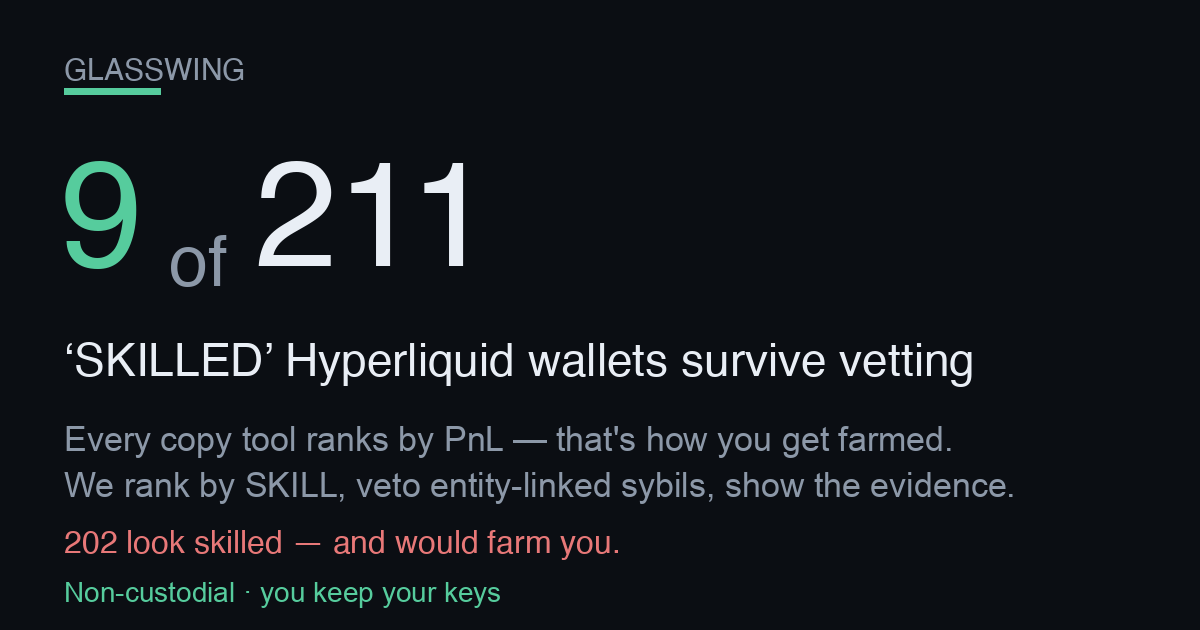
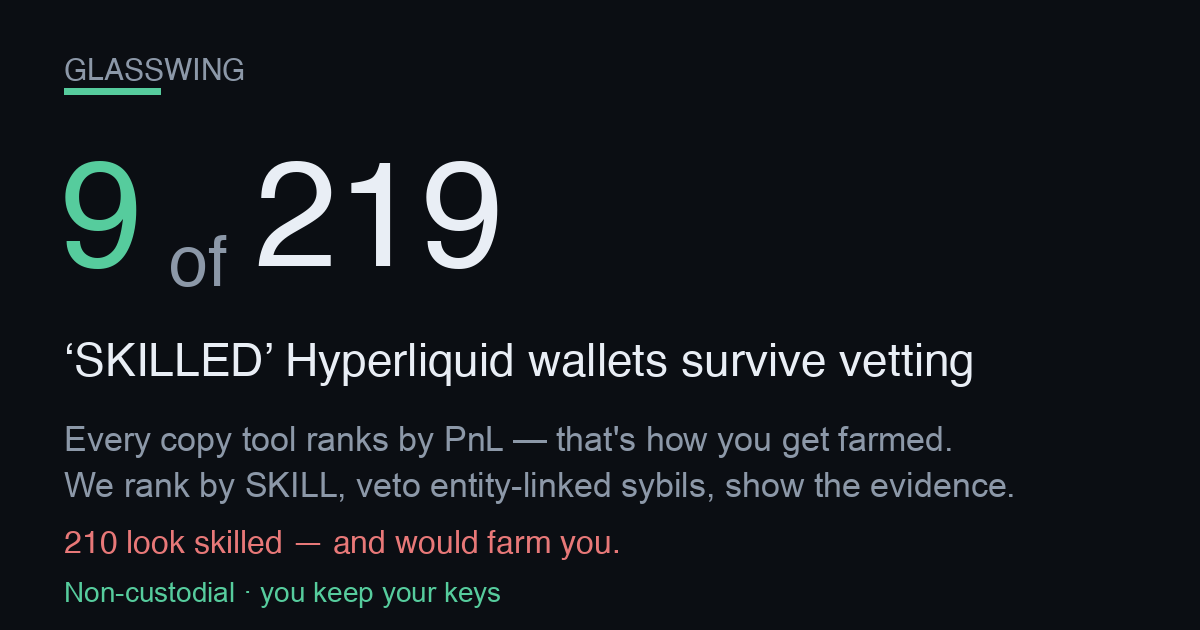
publish funnel 2026-08-13T19:46:23Z

Changed region(s): [[0.3392, 0.2413, 0.4317, 0.4524], [0.0617, 0.8444, 0.0925, 0.8746]]

diff --git a/screener.html b/screener.html
@@ -57,4 +57,4 @@ padding:11px 22px;font-size:15px;font-weight:800;border:1px solid var(--good)}
 footer{margin-top:34px;color:var(--muted);font-size:12px;line-height:1.6;
 border-top:1px solid var(--line);padding-top:16px}
 footer b{color:var(--ink)}
-</style></head><body><div class="wrap"><div class="nav"><a href="./index.html">&larr; Glasswing home</a><span class="sep">|</span><span>Edge Screener</span><span class="sep">|</span><a href="./dex.html">Copy a vetted leader</a></div><div class="hero"><h1>Hyperliquid Edge Screener</h1><div class="sub">Where&rsquo;s the carry, where a maker earns, and what&rsquo;s moving on Hyperliquid &mdash; live, computed from the public API. Bookmark it. Every number below is real and timestamped.</div><div class="stamp">Data as of <b>2026-08-12T05:44:14Z</b> &middot; rendered 2026-08-12T05:44:14Z &middot; 177 perps &middot; 94 HIP-3 (xyz) markets scanned</div></div><h2>Top funding &mdash; the carry table <span class="hint">perps ranked by annualized funding. Positive = longs pay shorts (a delta-neutral short earns it).</span></h2><div class="tblwrap"><table><thead><tr><th>Coin</th><th>Funding / hr</th><th>Annualized</th><th>Who pays</th><th>Open interest</th><th>24h volume</th></tr></thead><tbody><tr><td class="coin">KAITO</td><td>-0.3766%</td><td class="neg">-3299.4%</td><td><span class="tag shorts">shorts pay</span></td><td>$13.3M</td><td>$15.9M</td></tr><tr><td class="coin">STABLE</td><td>-0.0105%</td><td class="neg">-92.2%</td><td><span class="tag shorts">shorts pay</span></td><td>$1.5M</td><td>$296K</td></tr><tr><td class="coin">VVV</td><td>+0.0092%</td><td class="pos">+80.7%</td><td><span class="tag longs">longs pay</span></td><td>$16.6M</td><td>$2.0M</td></tr><tr><td class="coin">ACE</td><td>-0.0076%</td><td class="neg">-66.5%</td><td><span class="tag shorts">shorts pay</span></td><td>$1.0M</td><td>$773K</td></tr><tr><td class="coin">BIGTIME<span class="tag thin" title="Low liquidity/OI &mdash; ADL &amp; liquidation risk; funding can flip">&#9888; thin</span></td><td>-0.0073%</td><td class="neg">-63.6%</td><td><span class="tag shorts">shorts pay</span></td><td>$164K</td><td>$100K</td></tr><tr><td class="coin">OP</td><td>-0.0061%</td><td class="neg">-53.4%</td><td><span class="tag shorts">shorts pay</span></td><td>$3.4M</td><td>$639K</td></tr><tr><td class="coin">XAI<span class="tag thin" title="Low liquidity/OI &mdash; ADL &amp; liquidation risk; funding can flip">&#9888; thin</span></td><td>-0.0060%</td><td class="neg">-52.3%</td><td><span class="tag shorts">shorts pay</span></td><td>$269K</td><td>$109K</td></tr><tr><td class="coin">ZK</td><td>-0.0053%</td><td class="neg">-46.8%</td><td><span class="tag shorts">shorts pay</span></td><td>$622K</td><td>$274K</td></tr><tr><td class="coin">SUSHI<span class="tag thin" title="Low liquidity/OI &mdash; ADL &amp; liquidation risk; funding can flip">&#9888; thin</span></td><td>-0.0045%</td><td class="neg">-39.6%</td><td><span class="tag shorts">shorts pay</span></td><td>$324K</td><td>$327K</td></tr><tr><td class="coin">BABY<span class="tag thin" title="Low liquidity/OI &mdash; ADL &amp; liquidation risk; funding can flip">&#9888; thin</span></td><td>-0.0044%</td><td class="neg">-39.0%</td><td><span class="tag shorts">shorts pay</span></td><td>$173K</td><td>$281K</td></tr><tr><td class="coin">NEO<span class="tag thin" title="Low liquidity/OI &mdash; ADL &amp; liquidation risk; funding can flip">&#9888; thin</span></td><td>-0.0041%</td><td class="neg">-36.0%</td><td><span class="tag shorts">shorts pay</span></td><td>$319K</td><td>$120K</td></tr><tr><td class="coin">IO<span class="tag thin" title="Low liquidity/OI &mdash; ADL &amp; liquidation risk; funding can flip">&#9888; thin</span></td><td>-0.0032%</td><td class="neg">-27.8%</td><td><span class="tag shorts">shorts pay</span></td><td>$493K</td><td>$155K</td></tr></tbody></table></div><h2>Widest HIP-3 spreads &mdash; where a maker earns <span class="hint">xyz: markets by impact-price spread vs the ~0.6bps round-trip fee. A resting limit order captures the gap.</span></h2><div class="tblwrap"><table><thead><tr><th>Market</th><th>Spread</th><th>vs 0.6bps fee</th><th>Mid</th><th>24h volume</th></tr></thead><tbody><tr><td class="coin">xyz:NCLD<span class="tag gm">growth</span></td><td>369.9 bps</td><td class="pos">+369.3 bps</td><td>24.4175</td><td>$138K</td></tr><tr><td class="coin">xyz:BIRD<span class="tag gm">growth</span></td><td>295.9 bps</td><td class="pos">+295.3 bps</td><td>2.5812</td><td>$84K</td></tr><tr><td class="coin">xyz:LYTE<span class="tag gm">growth</span></td><td>187.6 bps</td><td class="pos">+187.0 bps</td><td>25.9280</td><td>$608K</td></tr><tr><td class="coin">xyz:GEV<span class="tag gm">growth</span></td><td>127.2 bps</td><td class="pos">+126.6 bps</td><td>1,015.65</td><td>$12K</td></tr><tr><td class="coin">xyz:BOT<span class="tag gm">growth</span></td><td>79.4 bps</td><td class="pos">+78.8 bps</td><td>30.9190</td><td>$2.8M</td></tr><tr><td class="coin">xyz:PURRDAT</td><td>76.1 bps</td><td class="pos">+75.5 bps</td><td>6.5893</td><td>$825K</td></tr><tr><td class="coin">xyz:SHAZ<span class="tag gm">growth</span></td><td>76.1 bps</td><td class="pos">+75.5 bps</td><td>57.5325</td><td>$1.4M</td></tr><tr><td class="coin">xyz:DKNG<span class="tag gm">growth</span></td><td>70.8 bps</td><td class="pos">+70.2 bps</td><td>25.2870</td><td>$160K</td></tr><tr><td class="coin">xyz:URNM<span class="tag gm">growth</span></td><td>61.5 bps</td><td class="pos">+60.9 bps</td><td>55.5525</td><td>$81K</td></tr><tr><td class="coin">xyz:ZM<span class="tag gm">growth</span></td><td>59.9 bps</td><td class="pos">+59.3 bps</td><td>105.8900</td><td>$179K</td></tr><tr><td class="coin">xyz:QNT<span class="tag gm">growth</span></td><td>58.2 bps</td><td class="pos">+57.6 bps</td><td>56.3020</td><td>$695K</td></tr><tr><td class="coin">xyz:EBAY<span class="tag gm">growth</span></td><td>57.4 bps</td><td class="pos">+56.8 bps</td><td>106.7650</td><td>$33K</td></tr></tbody></table></div><h2>Momentum &amp; volume &mdash; what&rsquo;s moving <span class="hint">perps by 24h volume with the 24h price change (mark vs prior-day).</span></h2><div class="tblwrap"><table><thead><tr><th>Coin</th><th>24h volume</th><th>24h change</th><th>Mark</th></tr></thead><tbody><tr><td class="coin">BTC</td><td>$1.30B</td><td class="neg">-0.32%</td><td>63,821.00</td></tr><tr><td class="coin">ETH</td><td>$663.5M</td><td class="pos">+0.80%</td><td>1,891.00</td></tr><tr><td class="coin">HYPE</td><td>$126.0M</td><td class="neg">-1.50%</td><td>54.5170</td></tr><tr><td class="coin">SOL</td><td>$116.2M</td><td class="pos">+0.46%</td><td>76.2780</td></tr><tr><td class="coin">ZEC</td><td>$59.7M</td><td class="neg">-2.00%</td><td>482.8400</td></tr><tr><td class="coin">XRP</td><td>$55.1M</td><td class="pos">+0.89%</td><td>1.0224</td></tr><tr><td class="coin">PUMP</td><td>$42.6M</td><td class="neg">-3.88%</td><td>0.002722</td></tr><tr><td class="coin">LIT</td><td>$19.2M</td><td class="neg">-6.33%</td><td>2.3186</td></tr><tr><td class="coin">KAITO</td><td>$15.9M</td><td class="neg">-4.81%</td><td>0.60613</td></tr><tr><td class="coin">CRV</td><td>$14.6M</td><td class="pos">+3.80%</td><td>0.27636</td></tr><tr><td class="coin">DOGE</td><td>$11.5M</td><td class="pos">+2.89%</td><td>0.072139</td></tr><tr><td class="coin">CASHCAT</td><td>$9.7M</td><td class="neg">-2.99%</td><td>0.14461</td></tr></tbody></table></div><div class="cta"><h2>These are the opportunities. Now copy the people who trade them.</h2><p class="lead">Spotting the carry and the spreads is the easy part &mdash; sizing, timing and risk are where most traders bleed. Copy the <b>skill-vetted</b> Hyperliquid leaders who actually trade these edges. Non-custodial: <b>you keep your keys and your funds</b> the entire time.</p><div class="row"><a class="btn" href="./index.html">See the vetted leaders &rarr;</a><a class="btn ghost" href="./dex.html">Start copying (non-custodial) &rarr;</a></div><div class="nc"><b>Non-custodial &amp; honest:</b> we never hold your keys or funds. Copying routes through a <b>0.01%</b> (1bp) on-chain builder fee &mdash; that is the only thing we ever charge, and it is the same fee shown on the copy page. Nothing on this screener is executed for you; it is information only.</div></div><footer><b>Not financial advice.</b> Funding rates, spreads and volumes are live snapshots that change every block; figures can be stale by the time you act. A high funding rate is <b>not free money</b> &mdash; the biggest rates sit on the thinnest, most crowded books (flagged &#9888; thin), where funding can flip against you and auto-deleveraging (ADL) or liquidation can close your position. &ldquo;Spread&rdquo; here is the impact-price spread (a conservative maker signal), not a guaranteed fill. HIP-3 markets are experimental. Do your own research and size responsibly. Glasswing is <b>non-custodial</b> &mdash; we never take custody of your keys or funds.</footer></div></body></html>
+</style></head><body><div class="wrap"><div class="nav"><a href="./index.html">&larr; Glasswing home</a><span class="sep">|</span><span>Edge Screener</span><span class="sep">|</span><a href="./dex.html">Copy a vetted leader</a></div><div class="hero"><h1>Hyperliquid Edge Screener</h1><div class="sub">Where&rsquo;s the carry, where a maker earns, and what&rsquo;s moving on Hyperliquid &mdash; live, computed from the public API. Bookmark it. Every number below is real and timestamped.</div><div class="stamp">Data as of <b>2026-08-13T19:44:29Z</b> &middot; rendered 2026-08-13T19:44:29Z &middot; 177 perps &middot; 94 HIP-3 (xyz) markets scanned</div></div><h2>Top funding &mdash; the carry table <span class="hint">perps ranked by annualized funding. Positive = longs pay shorts (a delta-neutral short earns it).</span></h2><div class="tblwrap"><table><thead><tr><th>Coin</th><th>Funding / hr</th><th>Annualized</th><th>Who pays</th><th>Open interest</th><th>24h volume</th></tr></thead><tbody><tr><td class="coin">ZORA<span class="tag thin" title="Low liquidity/OI &mdash; ADL &amp; liquidation risk; funding can flip">&#9888; thin</span></td><td>-0.0180%</td><td class="neg">-157.6%</td><td><span class="tag shorts">shorts pay</span></td><td>$549K</td><td>$153K</td></tr><tr><td class="coin">XMR</td><td>+0.0175%</td><td class="pos">+153.4%</td><td><span class="tag longs">longs pay</span></td><td>$58.0M</td><td>$6.5M</td></tr><tr><td class="coin">KAITO</td><td>-0.0162%</td><td class="neg">-142.0%</td><td><span class="tag shorts">shorts pay</span></td><td>$10.7M</td><td>$8.5M</td></tr><tr><td class="coin">2Z</td><td>-0.0155%</td><td class="neg">-135.4%</td><td><span class="tag shorts">shorts pay</span></td><td>$656K</td><td>$1.7M</td></tr><tr><td class="coin">MINA<span class="tag thin" title="Low liquidity/OI &mdash; ADL &amp; liquidation risk; funding can flip">&#9888; thin</span></td><td>-0.0124%</td><td class="neg">-108.4%</td><td><span class="tag shorts">shorts pay</span></td><td>$710K</td><td>$192K</td></tr><tr><td class="coin">BABY<span class="tag thin" title="Low liquidity/OI &mdash; ADL &amp; liquidation risk; funding can flip">&#9888; thin</span></td><td>-0.0108%</td><td class="neg">-94.2%</td><td><span class="tag shorts">shorts pay</span></td><td>$134K</td><td>$258K</td></tr><tr><td class="coin">GAS<span class="tag thin" title="Low liquidity/OI &mdash; ADL &amp; liquidation risk; funding can flip">&#9888; thin</span></td><td>-0.0081%</td><td class="neg">-70.8%</td><td><span class="tag shorts">shorts pay</span></td><td>$155K</td><td>$66K</td></tr><tr><td class="coin">BCH</td><td>-0.0079%</td><td class="neg">-69.4%</td><td><span class="tag shorts">shorts pay</span></td><td>$4.4M</td><td>$1.3M</td></tr><tr><td class="coin">ATOM</td><td>-0.0078%</td><td class="neg">-68.3%</td><td><span class="tag shorts">shorts pay</span></td><td>$2.0M</td><td>$579K</td></tr><tr><td class="coin">TURBO<span class="tag thin" title="Low liquidity/OI &mdash; ADL &amp; liquidation risk; funding can flip">&#9888; thin</span></td><td>-0.0073%</td><td class="neg">-64.1%</td><td><span class="tag shorts">shorts pay</span></td><td>$362K</td><td>$140K</td></tr><tr><td class="coin">CASHCAT</td><td>+0.0073%</td><td class="pos">+63.6%</td><td><span class="tag longs">longs pay</span></td><td>$22.1M</td><td>$3.0M</td></tr><tr><td class="coin">LIT</td><td>-0.0064%</td><td class="neg">-56.1%</td><td><span class="tag shorts">shorts pay</span></td><td>$85.6M</td><td>$13.2M</td></tr></tbody></table></div><h2>Widest HIP-3 spreads &mdash; where a maker earns <span class="hint">xyz: markets by impact-price spread vs the ~0.6bps round-trip fee. A resting limit order captures the gap.</span></h2><div class="tblwrap"><table><thead><tr><th>Market</th><th>Spread</th><th>vs 0.6bps fee</th><th>Mid</th><th>24h volume</th></tr></thead><tbody><tr><td class="coin">xyz:GIGADEV<span class="tag gm">growth</span></td><td>205.3 bps</td><td class="pos">+204.7 bps</td><td>61.8010</td><td>$573K</td></tr><tr><td class="coin">xyz:SOFTBANK<span class="tag gm">growth</span></td><td>133.2 bps</td><td class="pos">+132.6 bps</td><td>36.8020</td><td>$545K</td></tr><tr><td class="coin">xyz:BOT<span class="tag gm">growth</span></td><td>87.1 bps</td><td class="pos">+86.5 bps</td><td>31.5805</td><td>$1.2M</td></tr><tr><td class="coin">xyz:BIRD<span class="tag gm">growth</span></td><td>67.6 bps</td><td class="pos">+67.0 bps</td><td>2.6468</td><td>$277K</td></tr><tr><td class="coin">xyz:GEV<span class="tag gm">growth</span></td><td>47.1 bps</td><td class="pos">+46.5 bps</td><td>1,047.65</td><td>$59K</td></tr><tr><td class="coin">xyz:KIOXIA<span class="tag gm">growth</span></td><td>46.1 bps</td><td class="pos">+45.5 bps</td><td>355.3150</td><td>$10.7M</td></tr><tr><td class="coin">xyz:KR200<span class="tag gm">growth</span></td><td>44.8 bps</td><td class="pos">+44.2 bps</td><td>1,090.55</td><td>$1.1M</td></tr><tr><td class="coin">xyz:NCLD<span class="tag gm">growth</span></td><td>38.7 bps</td><td class="pos">+38.1 bps</td><td>26.0570</td><td>$451K</td></tr><tr><td class="coin">xyz:UNITREE<span class="tag gm">growth</span></td><td>36.5 bps</td><td class="pos">+35.9 bps</td><td>92.0920</td><td>$5.5M</td></tr><tr><td class="coin">xyz:ZHIPU<span class="tag gm">growth</span></td><td>32.7 bps</td><td class="pos">+32.1 bps</td><td>169.9800</td><td>$4.2M</td></tr><tr><td class="coin">xyz:QNT<span class="tag gm">growth</span></td><td>28.1 bps</td><td class="pos">+27.5 bps</td><td>68.4395</td><td>$2.3M</td></tr><tr><td class="coin">xyz:LYTE<span class="tag gm">growth</span></td><td>27.2 bps</td><td class="pos">+26.6 bps</td><td>26.1180</td><td>$1.1M</td></tr></tbody></table></div><h2>Momentum &amp; volume &mdash; what&rsquo;s moving <span class="hint">perps by 24h volume with the 24h price change (mark vs prior-day).</span></h2><div class="tblwrap"><table><thead><tr><th>Coin</th><th>24h volume</th><th>24h change</th><th>Mark</th></tr></thead><tbody><tr><td class="coin">BTC</td><td>$1.90B</td><td class="pos">+0.10%</td><td>63,384.00</td></tr><tr><td class="coin">ETH</td><td>$756.8M</td><td class="pos">+0.33%</td><td>1,885.54</td></tr><tr><td class="coin">HYPE</td><td>$206.4M</td><td class="pos">+2.30%</td><td>57.4980</td></tr><tr><td class="coin">SOL</td><td>$83.2M</td><td class="pos">+0.60%</td><td>76.0500</td></tr><tr><td class="coin">ZEC</td><td>$29.0M</td><td class="neg">-1.43%</td><td>483.8400</td></tr><tr><td class="coin">PUMP</td><td>$29.0M</td><td class="pos">+5.67%</td><td>0.002872</td></tr><tr><td class="coin">XRP</td><td>$23.4M</td><td class="pos">+0.07%</td><td>1.0084</td></tr><tr><td class="coin">LIT</td><td>$13.2M</td><td class="neg">-2.49%</td><td>2.3152</td></tr><tr><td class="coin">DOGE</td><td>$9.1M</td><td class="neg">-0.41%</td><td>0.070229</td></tr><tr><td class="coin">KAITO</td><td>$8.5M</td><td class="neg">-8.23%</td><td>0.42501</td></tr><tr><td class="coin">CRV</td><td>$7.5M</td><td class="neg">-5.07%</td><td>0.25295</td></tr><tr><td class="coin">kPEPE</td><td>$6.8M</td><td class="neg">-3.60%</td><td>0.002674</td></tr></tbody></table></div><div class="cta"><h2>These are the opportunities. Now copy the people who trade them.</h2><p class="lead">Spotting the carry and the spreads is the easy part &mdash; sizing, timing and risk are where most traders bleed. Copy the <b>skill-vetted</b> Hyperliquid leaders who actually trade these edges. Non-custodial: <b>you keep your keys and your funds</b> the entire time.</p><div class="row"><a class="btn" href="./index.html">See the vetted leaders &rarr;</a><a class="btn ghost" href="./dex.html">Start copying (non-custodial) &rarr;</a></div><div class="nc"><b>Non-custodial &amp; honest:</b> we never hold your keys or funds. Copying routes through a <b>0.01%</b> (1bp) on-chain builder fee &mdash; that is the only thing we ever charge, and it is the same fee shown on the copy page. Nothing on this screener is executed for you; it is information only.</div></div><footer><b>Not financial advice.</b> Funding rates, spreads and volumes are live snapshots that change every block; figures can be stale by the time you act. A high funding rate is <b>not free money</b> &mdash; the biggest rates sit on the thinnest, most crowded books (flagged &#9888; thin), where funding can flip against you and auto-deleveraging (ADL) or liquidation can close your position. &ldquo;Spread&rdquo; here is the impact-price spread (a conservative maker signal), not a guaranteed fill. HIP-3 markets are experimental. Do your own research and size responsibly. Glasswing is <b>non-custodial</b> &mdash; we never take custody of your keys or funds.</footer></div></body></html>

diff --git a/track.html b/track.html
@@ -62,35 +62,35 @@ font-weight:600;font-size:14px}
 <div class="wrap">
   <div class="hero">
     <h1>Self-verifying on-chain track record</h1>
-    <div class="big">$211.23</div>
+    <div class="big">$196.31</div>
     <div class="sub">current on-chain equity (perp + vault + spot USDC)</div>
     <div class="addr">0xbe6C1b09662BbE52CC93279D103Feb27985DdBc1</div>
-    <div class="stage early">24 days live — EARLY / NOT YET A MATURE RECORD</div>
+    <div class="stage early">26 days live — EARLY / NOT YET A MATURE RECORD</div>
   </div>
 
-  <div class="warnbar">EARLY-STAGE: this record is only 24 days live. It is NOT a mature track record and NOT an APR promise. We deliberately do not annualize a sample this young. Verify every figure yourself below.</div>
+  <div class="warnbar">EARLY-STAGE: this record is only 26 days live. It is NOT a mature track record and NOT an APR promise. We deliberately do not annualize a sample this young. Verify every figure yourself below.</div>
 
   <h2>On-chain figures <span style="color:var(--muted);font-weight:400;font-size:13px">
   &mdash; every one reproducible from the public info API</span></h2>
-  <table><tbody><tr><td class="k">On-chain equity (perp + vault + spot USDC)</td><td class="v">$211.23</td></tr><tr><td class="k">Perp account value</td><td class="v">$159.65</td></tr><tr><td class="k">Vault equity</td><td class="v">$51.03</td></tr><tr><td class="k">Spot USDC</td><td class="v">$0.55</td></tr><tr><td class="k">Withdrawable</td><td class="v">$121.86</td></tr></tbody></table>
+  <table><tbody><tr><td class="k">On-chain equity (perp + vault + spot USDC)</td><td class="v">$196.31</td></tr><tr><td class="k">Perp account value</td><td class="v">$145.43</td></tr><tr><td class="k">Vault equity</td><td class="v">$50.33</td></tr><tr><td class="k">Spot USDC</td><td class="v">$0.55</td></tr><tr><td class="k">Withdrawable</td><td class="v">$137.06</td></tr></tbody></table>
 
-  <h2>Vault deposits (on-chain)</h2><table><thead><tr><th>Vault address</th><th>Our equity</th></tr></thead><tbody><tr><td class="mono">0x2431edfcb662e6ff6deab113cc91878a0b53fb0f</td><td class="v">$0.01</td></tr><tr><td class="mono">0x697bc3dd77539fa84156d0e1c95287ea5524fd6b</td><td class="v">$26.35</td></tr><tr><td class="mono">0x8825e6ed11c7f9c0874579c9f4bba192b9e81c8f</td><td class="v">$0.12</td></tr><tr><td class="mono">0xc71f5a493b937e4b1798b86510630336a6dfd804</td><td class="v">$24.56</td></tr></tbody></table>
+  <h2>Vault deposits (on-chain)</h2><table><thead><tr><th>Vault address</th><th>Our equity</th></tr></thead><tbody><tr><td class="mono">0x2431edfcb662e6ff6deab113cc91878a0b53fb0f</td><td class="v">$0.01</td></tr><tr><td class="mono">0x697bc3dd77539fa84156d0e1c95287ea5524fd6b</td><td class="v">$25.94</td></tr><tr><td class="mono">0x8825e6ed11c7f9c0874579c9f4bba192b9e81c8f</td><td class="v">$0.12</td></tr><tr><td class="mono">0xc71f5a493b937e4b1798b86510630336a6dfd804</td><td class="v">$24.27</td></tr></tbody></table>
 
   <h2>Performance <span style="color:var(--muted);font-weight:400;font-size:13px">
   &mdash; honest stage, no annualization</span></h2>
-  <table><tbody><tr><td class="k">Days live (our formal record)</td><td class="v">24</td></tr><tr><td class="k">Maturity</td><td class="v">EARLY / NOT YET A MATURE RECORD</td></tr><tr><td class="k">Current real strategy income / day</td><td class="v">$3.6747</td></tr><tr><td class="k">Cumulative net income (if attributed)</td><td class="v">$26.4787</td></tr><tr><td class="k">Annualized APR</td><td class="v">intentionally NOT computed (record too young)</td></tr></tbody></table>
+  <table><tbody><tr><td class="k">Days live (our formal record)</td><td class="v">26</td></tr><tr><td class="k">Maturity</td><td class="v">EARLY / NOT YET A MATURE RECORD</td></tr><tr><td class="k">Current real strategy income / day</td><td class="v">$4.7685</td></tr><tr><td class="k">Cumulative net income (if attributed)</td><td class="v">$33.0395</td></tr><tr><td class="k">Annualized APR</td><td class="v">intentionally NOT computed (record too young)</td></tr></tbody></table>
 
   <h2>Strategy arms <span style="color:var(--muted);font-weight:400;font-size:13px">
   &mdash; internal marks, cross-checkable against chain equity</span></h2>
-  <table><thead><tr><th>Arm</th><th>Status</th><th>Real / day</th><th>Note</th></tr></thead><tbody><tr><td class="v">carry</td><td><span class="badge off">—</span></td><td class="v">$3.6747</td><td class="k"></td></tr><tr><td class="v">copy</td><td><span class="badge live">live</span></td><td class="v">$0.0000</td><td class="k"></td></tr><tr><td class="v">builder</td><td><span class="badge off">—</span></td><td class="v">$0.0000</td><td class="k">proven live; $0 until distributed (∝ users&#x27; volume)</td></tr></tbody></table>
+  <table><thead><tr><th>Arm</th><th>Status</th><th>Real / day</th><th>Note</th></tr></thead><tbody><tr><td class="v">carry</td><td><span class="badge off">—</span></td><td class="v">$4.7685</td><td class="k"></td></tr><tr><td class="v">copy</td><td><span class="badge live">live</span></td><td class="v">$0.0000</td><td class="k"></td></tr><tr><td class="v">builder</td><td><span class="badge off">—</span></td><td class="v">$0.0000</td><td class="k">proven live; $0 until distributed (∝ users&#x27; volume)</td></tr></tbody></table>
 
   <h2>Reproduce it</h2>
   <div class="verify"><h3>Verify this yourself</h3><p>These are PUBLIC calls. Run them yourself against the address below and you will re-derive every on-chain figure on this page. equity_usd = perp accountValue + vault equity + spot USDC. Endpoint: https://api.hyperliquid.xyz/info</p><div class="cn">clearinghouseState &rarr; marginSummary.accountValue (perp value), withdrawable, marginSummary.totalMarginUsed</div><pre>curl -s -X POST https://api.hyperliquid.xyz/info -H &#x27;Content-Type: application/json&#x27; -d &#x27;{&quot;type&quot;: &quot;clearinghouseState&quot;, &quot;user&quot;: &quot;0xbe6C1b09662BbE52CC93279D103Feb27985DdBc1&quot;}&#x27;</pre><div class="cn">userVaultEquities &rarr; sum of each entry&#x27;s equity (our vault deposits)</div><pre>curl -s -X POST https://api.hyperliquid.xyz/info -H &#x27;Content-Type: application/json&#x27; -d &#x27;{&quot;type&quot;: &quot;userVaultEquities&quot;, &quot;user&quot;: &quot;0xbe6C1b09662BbE52CC93279D103Feb27985DdBc1&quot;}&#x27;</pre><div class="cn">spotClearinghouseState &rarr; balances[] where coin==USDC -&gt; total (spot USDC)</div><pre>curl -s -X POST https://api.hyperliquid.xyz/info -H &#x27;Content-Type: application/json&#x27; -d &#x27;{&quot;type&quot;: &quot;spotClearinghouseState&quot;, &quot;user&quot;: &quot;0xbe6C1b09662BbE52CC93279D103Feb27985DdBc1&quot;}&#x27;</pre></div>
 
   <footer>
     <div>Self-verifying: every on-chain figure is reproducible by querying Hyperliquid&#x27;s public info API for the stated address. Internal daily marks are cross-checkable against on-chain equity. EARLY-STAGE record — not a mature track record, not an APR promise, not financial advice. Past performance != future results.</div>
-    <div class="stamp">Generated at 2026-08-12T05:43:51Z &middot; internal marks
-    mtime 2026-08-11T22:10:15Z &middot; static receipt, no live
+    <div class="stamp">Generated at 2026-08-13T19:42:36Z &middot; internal marks
+    mtime 2026-08-13T17:20:57Z &middot; static receipt, no live
     authority — this page never trades or arms.</div>
   </footer>
 </div>

diff --git a/index.html b/index.html
@@ -3,8 +3,8 @@
 <head>
 <meta charset="utf-8">
 <meta name="viewport" content="width=device-width, initial-scale=1">
-<title>9 of 211 SKILLED Hyperliquid wallets survive vetting</title>
-<meta name="description" content="9 of 211 leaderboard-SKILLED Hyperliquid wallets survive vetting. Copy only the survivors, non-custodial — you keep your keys and funds.">
+<title>9 of 219 SKILLED Hyperliquid wallets survive vetting</title>
+<meta name="description" content="9 of 219 leaderboard-SKILLED Hyperliquid wallets survive vetting. Copy only the survivors, non-custodial — you keep your keys and funds.">
 <link rel="canonical" href="https://dynobit.github.io/glasswing/">
 <meta name="robots" content="index,follow">
 <meta name="theme-color" content="#0b0e13">
@@ -14,14 +14,14 @@
      head, not this. og:url is the canonical Pages home so every share resolves here. -->
 <meta property="og:type" content="website">
 <meta property="og:site_name" content="Glasswing">
-<meta property="og:title" content="9 of 211 SKILLED Hyperliquid wallets survive vetting">
+<meta property="og:title" content="9 of 219 SKILLED Hyperliquid wallets survive vetting">
 <meta property="og:description" content="Every copy tool ranks leaders by PnL — which is how you get farmed. This ranks by SKILL, then vetoes entity-linked sybils, and shows the evidence for every reject. Non-custodial: you keep your keys.">
 <meta property="og:url" content="https://dynobit.github.io/glasswing/">
 <meta property="og:image" content="https://dynobit.github.io/glasswing/og-card.png">
 <meta property="og:image:width" content="1200">
 <meta property="og:image:height" content="630">
 <meta name="twitter:card" content="summary_large_image">
-<meta name="twitter:title" content="9 of 211 SKILLED Hyperliquid wallets survive vetting">
+<meta name="twitter:title" content="9 of 219 SKILLED Hyperliquid wallets survive vetting">
 <meta name="twitter:description" content="Skill-ranked (not PnL-ranked) HL copy-leaders, entity-linked sybils vetoed with evidence. Non-custodial.">
 <meta name="twitter:image" content="https://dynobit.github.io/glasswing/og-card.png">
 <style>
@@ -135,18 +135,18 @@ footer .nc{color:var(--good);font-weight:600}
 
   <!-- 1. HERO — the shareable hook (screenshot-worthy) -->
   <div class="hero">
-    <h1><span class="big">9 of 211</span> &lsquo;SKILLED&rsquo;
+    <h1><span class="big">9 of 219</span> &lsquo;SKILLED&rsquo;
     Hyperliquid wallets survive vetting</h1>
-    <div class="sub">The other <span class="trap">202</span> look skilled on a
+    <div class="sub">The other <span class="trap">210</span> look skilled on a
     raw copy leaderboard but would farm you &mdash; here are the
-    <span class="trap">202</span> that would. Entity-linked sybils,
-    wash-traded track records, or simply unscreened. 4.3% survive.
-    Universe: 1733 scored wallets.</div>
+    <span class="trap">210</span> that would. Entity-linked sybils,
+    wash-traded track records, or simply unscreened. 4.1% survive.
+    Universe: 1849 scored wallets.</div>
   </div>
 
   <!-- 2. THE WEDGE — the marketing (why us, not any other copy tool) -->
   <div class="wedge"><span class="them">Every other copy tool ranks all
-    211 by PnL and calls it a leaderboard.</span> We are the only one that
+    219 by PnL and calls it a leaderboard.</span> We are the only one that
     <b>flags the entity-linked and farming wallets with on-chain evidence</b> &mdash;
     transfer-graph linkage between wallets and arXiv memecoin farm-features &mdash;
     and shows you only the 9 that survive. A high PnL is exactly what a
@@ -268,7 +268,7 @@ footer .nc{color:var(--good);font-weight:600}
   <footer>
     <div class="nc">Non-custodial: we never hold your keys or funds. No server, no backend. Your browser talks only to Hyperliquid&#x27;s public API.</div>
     <div>Advisory. Skill = sign-randomization null vs luck. Entity veto = public transfer-graph linkage. Farm screen = arXiv:2601.08641 features (memecoin thresholds, HL-uncalibrated). Follower-realizable PnL is NOT yet proven — a PRE-COMMITTED forward test is in progress (0/2 windows, earliest 2026-08-13); the copyability claim publishes only when the pre-registered windows close, so it cannot be discovery-mined. Exit-alpha shown is advisory. Not financial advice.</div>
-    <div class="stamp">Generated at 2026-08-12T05:44:01Z &middot; single-file funnel,
+    <div class="stamp">Generated at 2026-08-13T19:42:56Z &middot; single-file funnel,
     no live authority. In-browser order signing is IMPLEMENTED (real secp256k1 +
     keccak + msgpack EIP-712 from a pinned CDN) but UNVALIDATED against Hyperliquid:
     mainnet is blocked until a testnet order is proven accepted.</div>

diff --git a/dex.html b/dex.html
@@ -112,8 +112,8 @@ footer .nc{color:var(--good);font-weight:600}
     funds and your keys the whole time. Two signatures in your own wallet, an
     ephemeral in-browser agent key that can trade but never withdraw, and a
     client-side loop that mirrors only the
-    <b>9 of 211</b> vetted survivors
-    (universe: 1733 scored wallets). No server, no backend.</div>
+    <b>9 of 219</b> vetted survivors
+    (universe: 1849 scored wallets). No server, no backend.</div>
     <div class="tag">static bundle &middot; IPFS-publishable &middot; revenue accrues on-chain</div>
   </div>
 
@@ -217,7 +217,7 @@ footer .nc{color:var(--good);font-weight:600}
   <footer>
     <div class="nc">Pure DEX, self-custodial. No server, no backend, no key we ever hold. Your browser talks only to Hyperliquid&#x27;s public API.</div>
     <div>Advisory. Skill = sign-randomization null vs luck. Entity veto = public transfer-graph linkage. Farm screen = arXiv:2601.08641 features (memecoin thresholds, HL-uncalibrated). Follower-realizable PnL is NOT yet proven — a PRE-COMMITTED forward test is in progress (0/2 windows, earliest 2026-08-13); the copyability claim publishes only when the pre-registered windows close, so it cannot be discovery-mined. Exit-alpha shown is advisory. Not financial advice.</div>
-    <div class="stamp">Generated at 2026-08-12T05:44:01Z &middot; static,
+    <div class="stamp">Generated at 2026-08-13T19:42:56Z &middot; static,
     self-custodial surface, no live authority. In-browser order signing is
     IMPLEMENTED (real secp256k1 + keccak + msgpack EIP-712 from a pinned CDN) but
     UNVALIDATED against Hyperliquid: mainnet is blocked until a testnet order is
